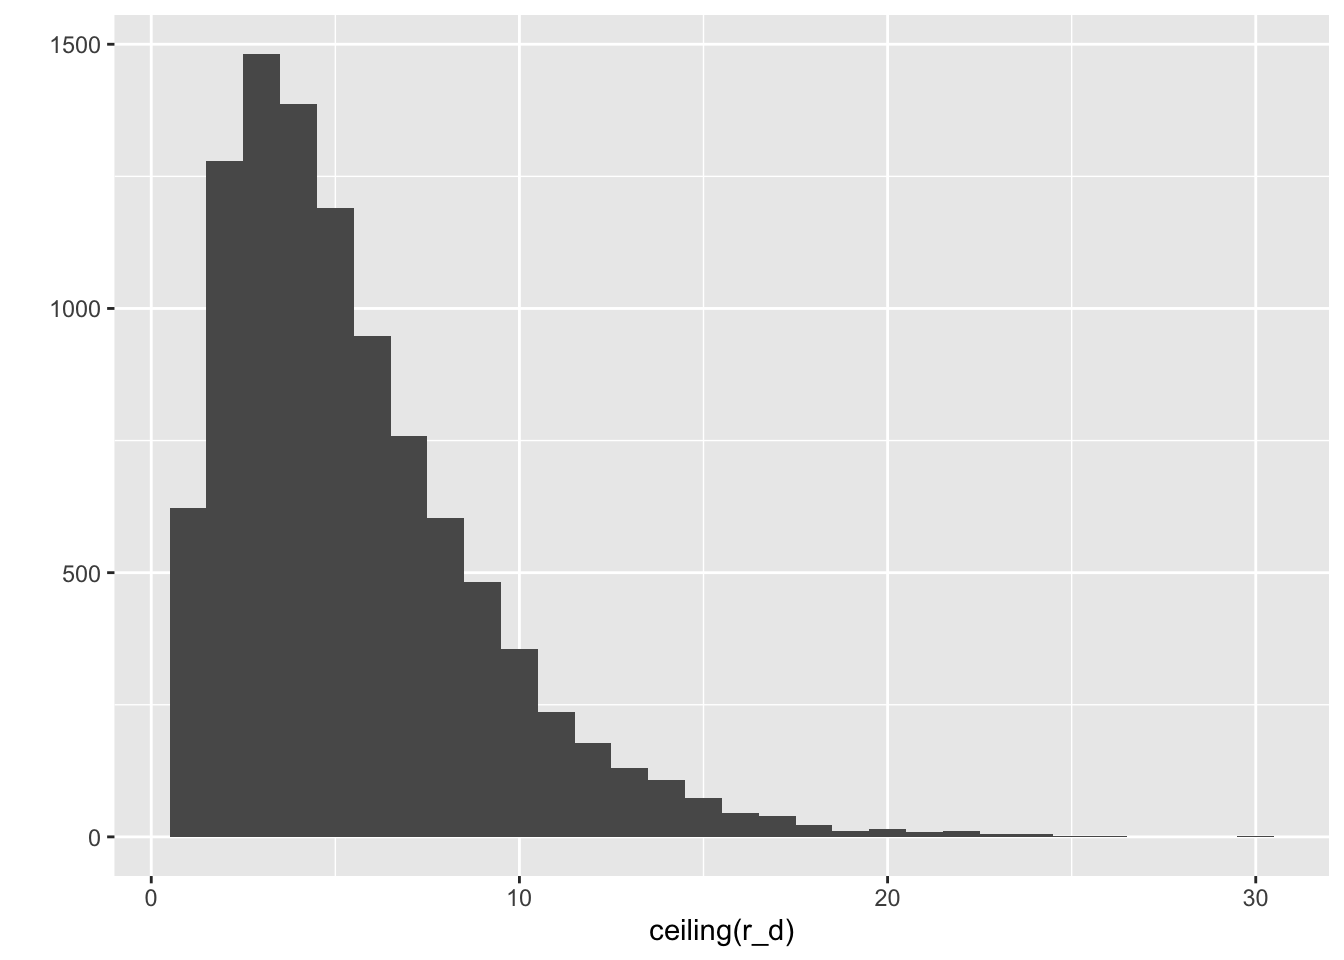
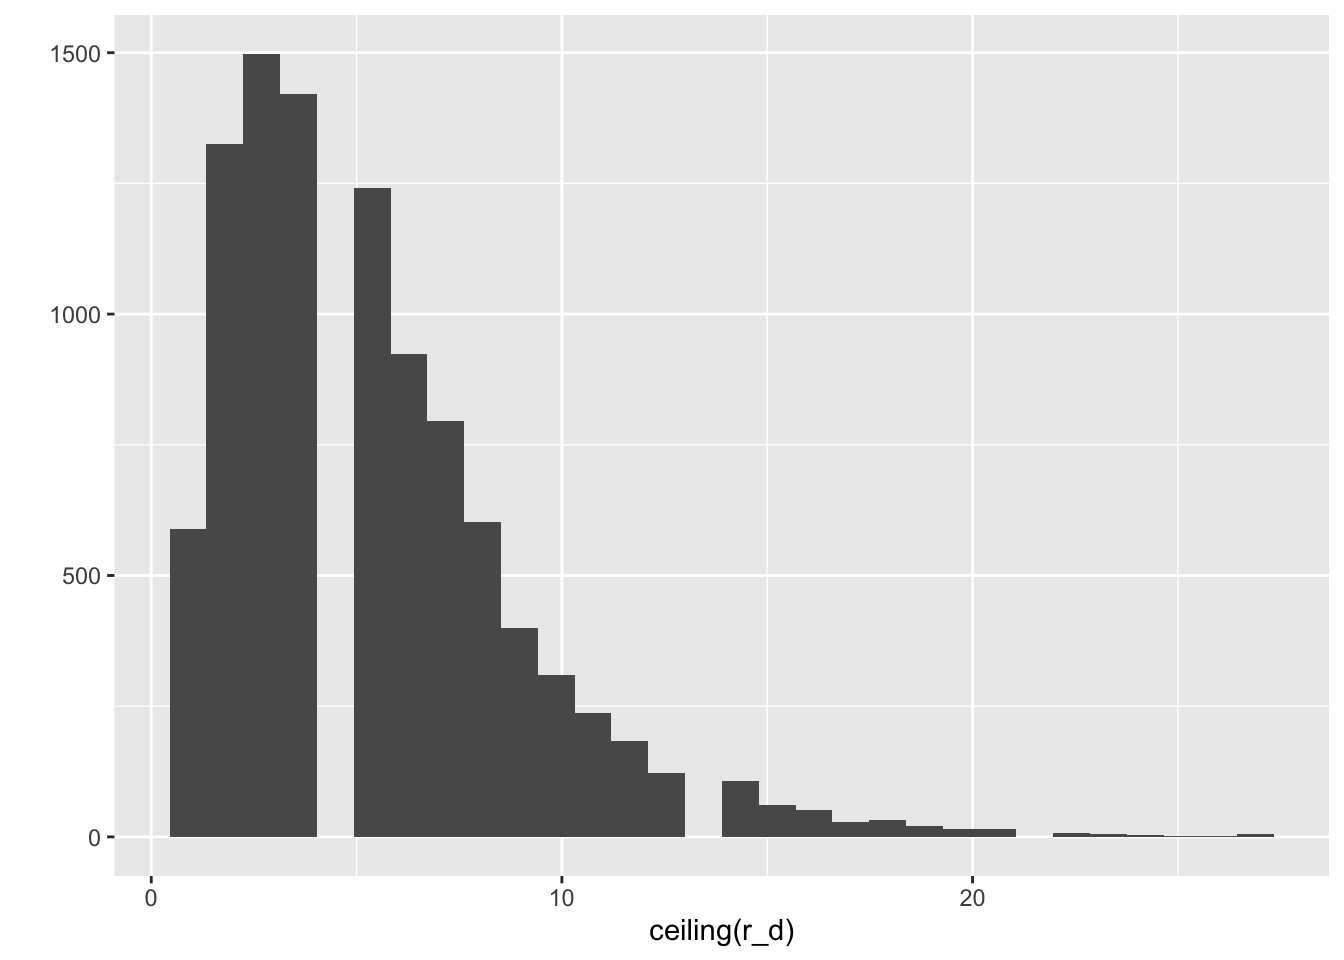
2nd attempt at setting a post to draft.

diff --git a/content/post/2019-12-06-the-relationship-between-resourcing-and-performance-in-workload-modeling.html b/content/post/2019-12-06-the-relationship-between-resourcing-and-performance-in-workload-modeling.html
@@ -5,6 +5,7 @@ date: '2019-12-06'
 slug: the-relationship-between-resourcing-and-performance-in-workload-modeling
 categories: []
 tags: []
+draft: TRUE
 ---
 
 
@@ -24,12 +25,12 @@ tags: []
 <p><span class="math display">\[ E\Big(\frac{S_0}{s}\Big) = E\Big(\frac{R}{r_0}\Big) = \frac{1}{r_0}E(R)\]</span></p>
 <p><span class="math display">\[P\Big(\frac{R}{r_0} = \frac{r}{r_0}\Big) = P(R = r)\]</span></p>
 <pre class="r"><code>library(tidyverse)</code></pre>
-<pre><code>## ── Attaching packages ──────────────────────────────────────────────────────────────────────────────────── tidyverse 1.3.0 ──</code></pre>
+<pre><code>## ── Attaching packages ───────────────────────────────────────────────────────────── tidyverse 1.3.0 ──</code></pre>
 <pre><code>## ✓ ggplot2 3.3.2     ✓ purrr   0.3.4
 ## ✓ tibble  3.0.1     ✓ dplyr   1.0.0
 ## ✓ tidyr   1.1.0     ✓ stringr 1.4.0
 ## ✓ readr   1.3.1     ✓ forcats 0.5.0</code></pre>
-<pre><code>## ── Conflicts ─────────────────────────────────────────────────────────────────────────────────────── tidyverse_conflicts() ──
+<pre><code>## ── Conflicts ──────────────────────────────────────────────────────────────── tidyverse_conflicts() ──
 ## x dplyr::filter() masks stats::filter()
 ## x dplyr::lag()    masks stats::lag()</code></pre>
 <pre class="r"><code># days to simulate
@@ -67,7 +68,7 @@ qplot(ceiling(r_d))</code></pre>
 <pre><code>## `stat_bin()` using `bins = 30`. Pick better value with `binwidth`.</code></pre>
 <p><img src="/post/2019-12-06-the-relationship-between-resourcing-and-performance-in-workload-modeling_files/figure-html/unnamed-chunk-1-1.png" width="672" /></p>
 <pre class="r"><code>mean(r_d)</code></pre>
-<pre><code>## [1] 5.002004</code></pre>
+<pre><code>## [1] 4.946198</code></pre>
 <pre class="r"><code>mu * phi</code></pre>
 <pre><code>## [1] 5</code></pre>
 <pre class="r"><code># our conjecture predicts s_0/s = r/r_0
@@ -75,7 +76,7 @@ qplot(ceiling(r_d))</code></pre>
 r0 &lt;- 4
 
 mean(r_d/r0)</code></pre>
-<pre><code>## [1] 1.250501</code></pre>
+<pre><code>## [1] 1.23655</code></pre>
 <pre class="r"><code># in our to demonstrate the validity of the conjecture, we want to construct an algorithm that simulates the processing of workloads given an allocation of resources.
 
 # let&#39;s create a resource that has 10 day blocks

diff --git a/public/post/the-relationship-between-resourcing-and-performance-in-workload-modeling/index.html b/public/post/the-relationship-between-resourcing-and-performance-in-workload-modeling/index.html
@@ -72,12 +72,12 @@
 <p><span class="math display">\[ E\Big(\frac{S_0}{s}\Big) = E\Big(\frac{R}{r_0}\Big) = \frac{1}{r_0}E(R)\]</span></p>
 <p><span class="math display">\[P\Big(\frac{R}{r_0} = \frac{r}{r_0}\Big) = P(R = r)\]</span></p>
 <pre class="r"><code>library(tidyverse)</code></pre>
-<pre><code>## ── Attaching packages ──────────────────────────────────────────────────────────────────────────────────── tidyverse 1.3.0 ──</code></pre>
+<pre><code>## ── Attaching packages ───────────────────────────────────────────────────────────── tidyverse 1.3.0 ──</code></pre>
 <pre><code>## ✓ ggplot2 3.3.2     ✓ purrr   0.3.4
 ## ✓ tibble  3.0.1     ✓ dplyr   1.0.0
 ## ✓ tidyr   1.1.0     ✓ stringr 1.4.0
 ## ✓ readr   1.3.1     ✓ forcats 0.5.0</code></pre>
-<pre><code>## ── Conflicts ─────────────────────────────────────────────────────────────────────────────────────── tidyverse_conflicts() ──
+<pre><code>## ── Conflicts ──────────────────────────────────────────────────────────────── tidyverse_conflicts() ──
 ## x dplyr::filter() masks stats::filter()
 ## x dplyr::lag()    masks stats::lag()</code></pre>
 <pre class="r"><code># days to simulate
@@ -115,7 +115,7 @@ qplot(ceiling(r_d))</code></pre>
 <pre><code>## `stat_bin()` using `bins = 30`. Pick better value with `binwidth`.</code></pre>
 <p><img src="/post/2019-12-06-the-relationship-between-resourcing-and-performance-in-workload-modeling_files/figure-html/unnamed-chunk-1-1.png" width="672" /></p>
 <pre class="r"><code>mean(r_d)</code></pre>
-<pre><code>## [1] 5.002004</code></pre>
+<pre><code>## [1] 4.946198</code></pre>
 <pre class="r"><code>mu * phi</code></pre>
 <pre><code>## [1] 5</code></pre>
 <pre class="r"><code># our conjecture predicts s_0/s = r/r_0
@@ -123,7 +123,7 @@ qplot(ceiling(r_d))</code></pre>
 r0 &lt;- 4
 
 mean(r_d/r0)</code></pre>
-<pre><code>## [1] 1.250501</code></pre>
+<pre><code>## [1] 1.23655</code></pre>
 <pre class="r"><code># in our to demonstrate the validity of the conjecture, we want to construct an algorithm that simulates the processing of workloads given an allocation of resources.
 
 # let&#39;s create a resource that has 10 day blocks
